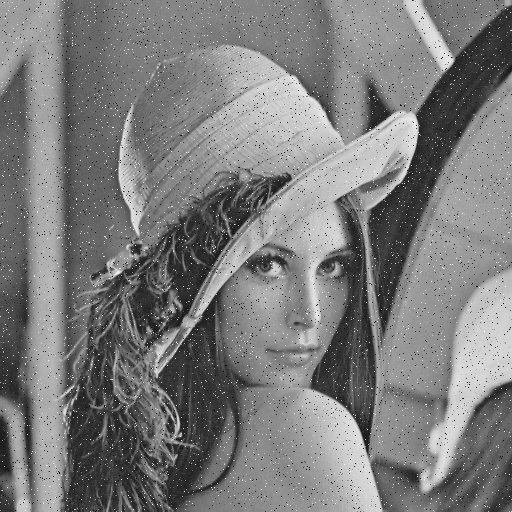
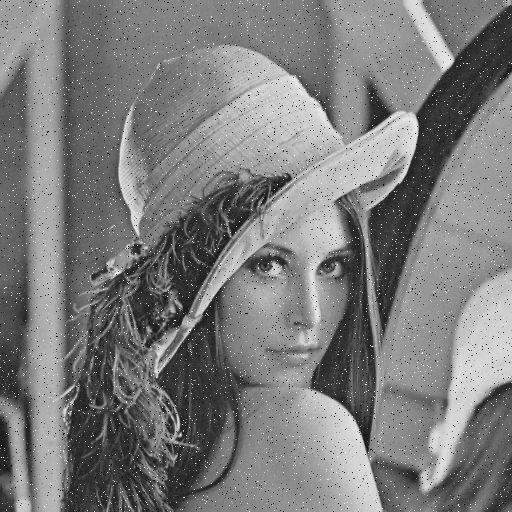
Fix bug with non-square images

diff --git a/HammingBSCImage/sim.py b/HammingBSCImage/sim.py
@@ -1,7 +1,7 @@
 import copy
 import sys
 import random
-from PIL import Image
+from PIL import Image, ImageOps
 
 
 def Parity(data):
@@ -18,9 +18,10 @@ def Probability(received, transmitted, total, flipProb):
     return result
 
 
-f = 0.05
+f = 0.1
 
 img = Image.open(sys.argv[1]).convert("L")
+img = ImageOps.exif_transpose(img)
 
 img.save("GreyscaleOriginal.png")
 print("Converted to greyscale.")
@@ -48,8 +49,7 @@ for i in range(len(blocks)):
 for i in range(0, len(blocks), 2):
     pixel = "".join([str(x) for x in blocks[i]])[:4] + \
         "".join([str(x) for x in blocks[i+1]])[:4]
-    pixels[i/2 // img.size[1], i/2 %
-           img.size[0]] = int(pixel, 2)
+    pixels[i/2 // img.size[1], i/2 % img.size[1]] = int(pixel, 2)
 
 img.save(f"Noisy(f={f}).png")
 img.show()
@@ -78,7 +78,7 @@ for i in range(0, len(blocks), 2):
     pixel = "".join([str(x) for x in blocks[i]])[:4] + \
         "".join([str(x) for x in blocks[i+1]])[:4]
     pixels[i/2 // img.size[1], i/2 %
-           img.size[0]] = int(pixel, 2)
+           img.size[1]] = int(pixel, 2)
 
 img.save(f"Decoded(f={f}).png")
 img.show()
